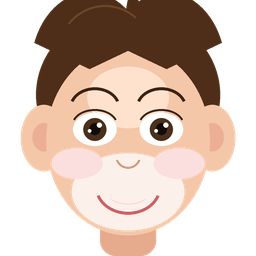
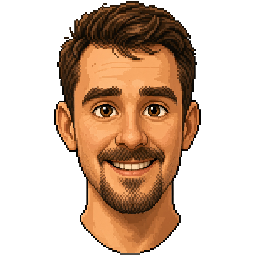
Gra: pixel-artowa twarz Krzysztofa z przezroczystym tłem
Wycinam szare tło, zostawiam czarny kontur i rysuję wycinkę bez owalu,
z ostrymi pikselami. Szyja wchodzi w kołnierz garnituru.

diff --git a/gra/gra.js b/gra/gra.js
@@ -296,7 +296,7 @@
   }
 
   function playerHitbox() {
-    return { x: player.x - 20, y: player.y - 90, w: 40, h: 88 };
+    return { x: player.x - 22, y: player.y - 138, w: 44, h: 136 };
   }
 
   function aabb(a, b) {
@@ -745,6 +745,23 @@
     fallback(ctx, cx, cy, r);
   }
 
+  /* Wycinka Krzysztofa (już z przezroczystym tłem) — bez owalnego przycięcia, ostre piksele. */
+  function drawKrzysztofSprite(ctx, img, cx, collarY, fallback) {
+    var iw = img && (img.naturalWidth || img.width);
+    var ih = img && (img.naturalHeight || img.height);
+    if (!iw || !ih) {
+      fallback(ctx, cx, collarY - 20, 22);
+      return;
+    }
+    var dh = 78;
+    var dw = dh * (iw / ih);
+    var dx = Math.round(cx - dw / 2);
+    var dy = Math.round(collarY - dh * 0.805);
+    ctx.imageSmoothingEnabled = false;
+    ctx.drawImage(img, dx, dy, Math.round(dw), Math.round(dh));
+    ctx.imageSmoothingEnabled = true;
+  }
+
   function drawBill(ctx, x, y, rot, scale) {
     scale = scale || 1;
     ctx.save();
@@ -911,6 +928,9 @@
     rounded(ctx, x + 2, y - 8, 13, 8, 2);
     ctx.fill();
 
+    /* głowa przed tułowiem, żeby kołnierz i krawat zasłoniły dolną część szyi */
+    drawKrzysztofSprite(ctx, imgK, x, y - 76, drawFallbackKrzysztof);
+
     ctx.fillStyle = '#1c2740';
     rounded(ctx, x - 18, y - 78, 36, 48, 8);
     ctx.fill();
@@ -988,7 +1008,6 @@
       }
     }
 
-    drawHead(ctx, imgK, x, y - 96, 22, drawFallbackKrzysztof);
     ctx.restore();
     ctx.globalAlpha = 1;
   }
